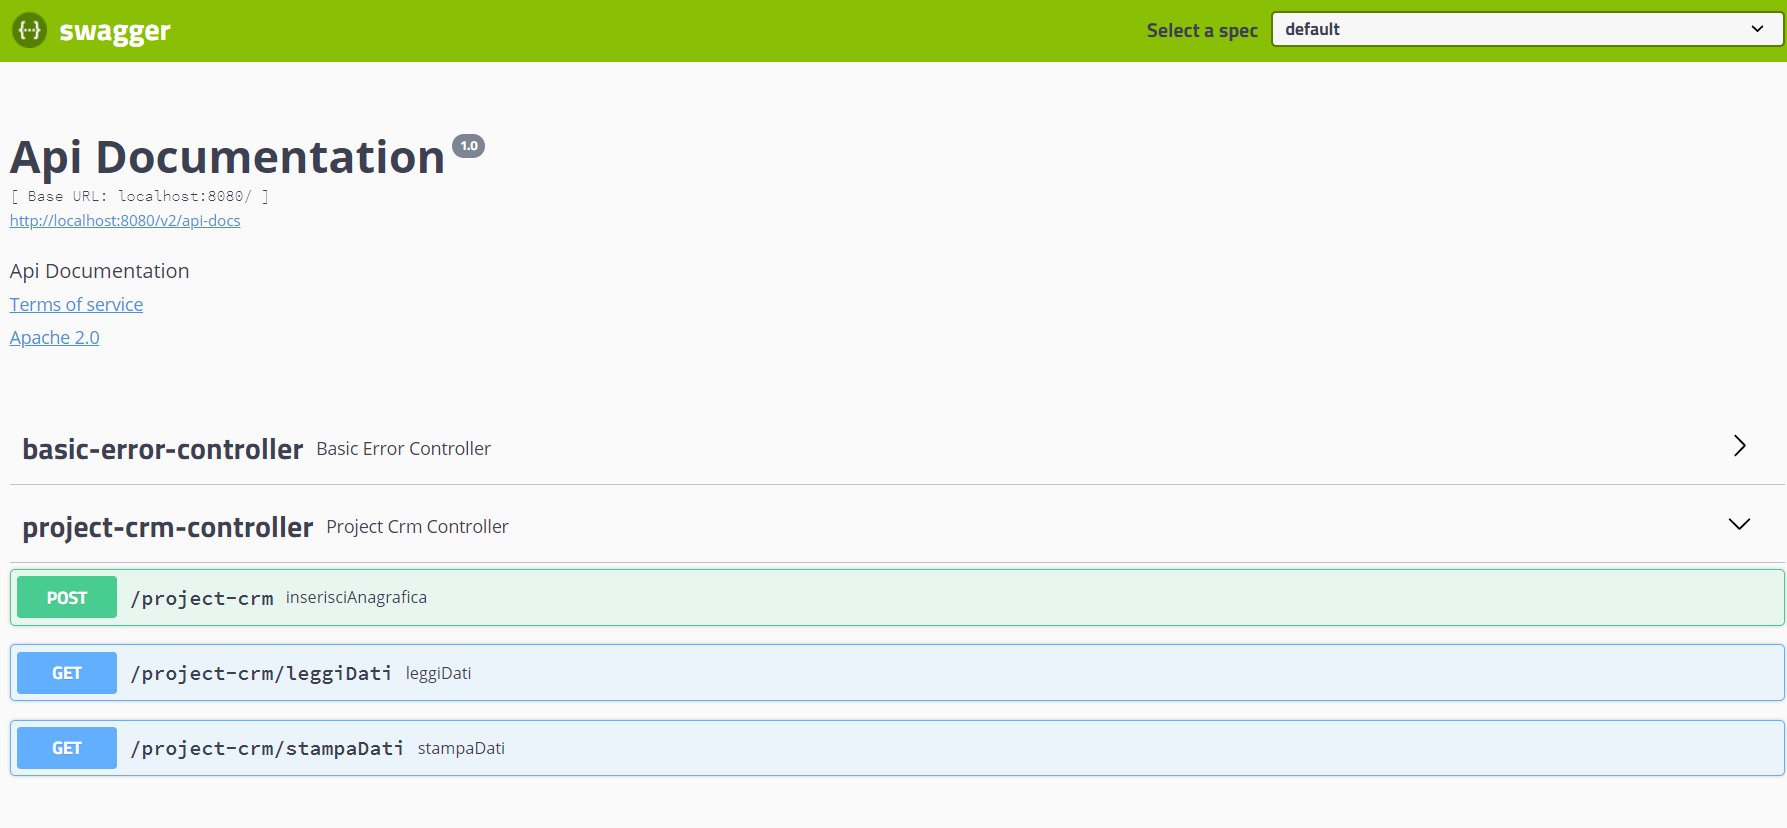
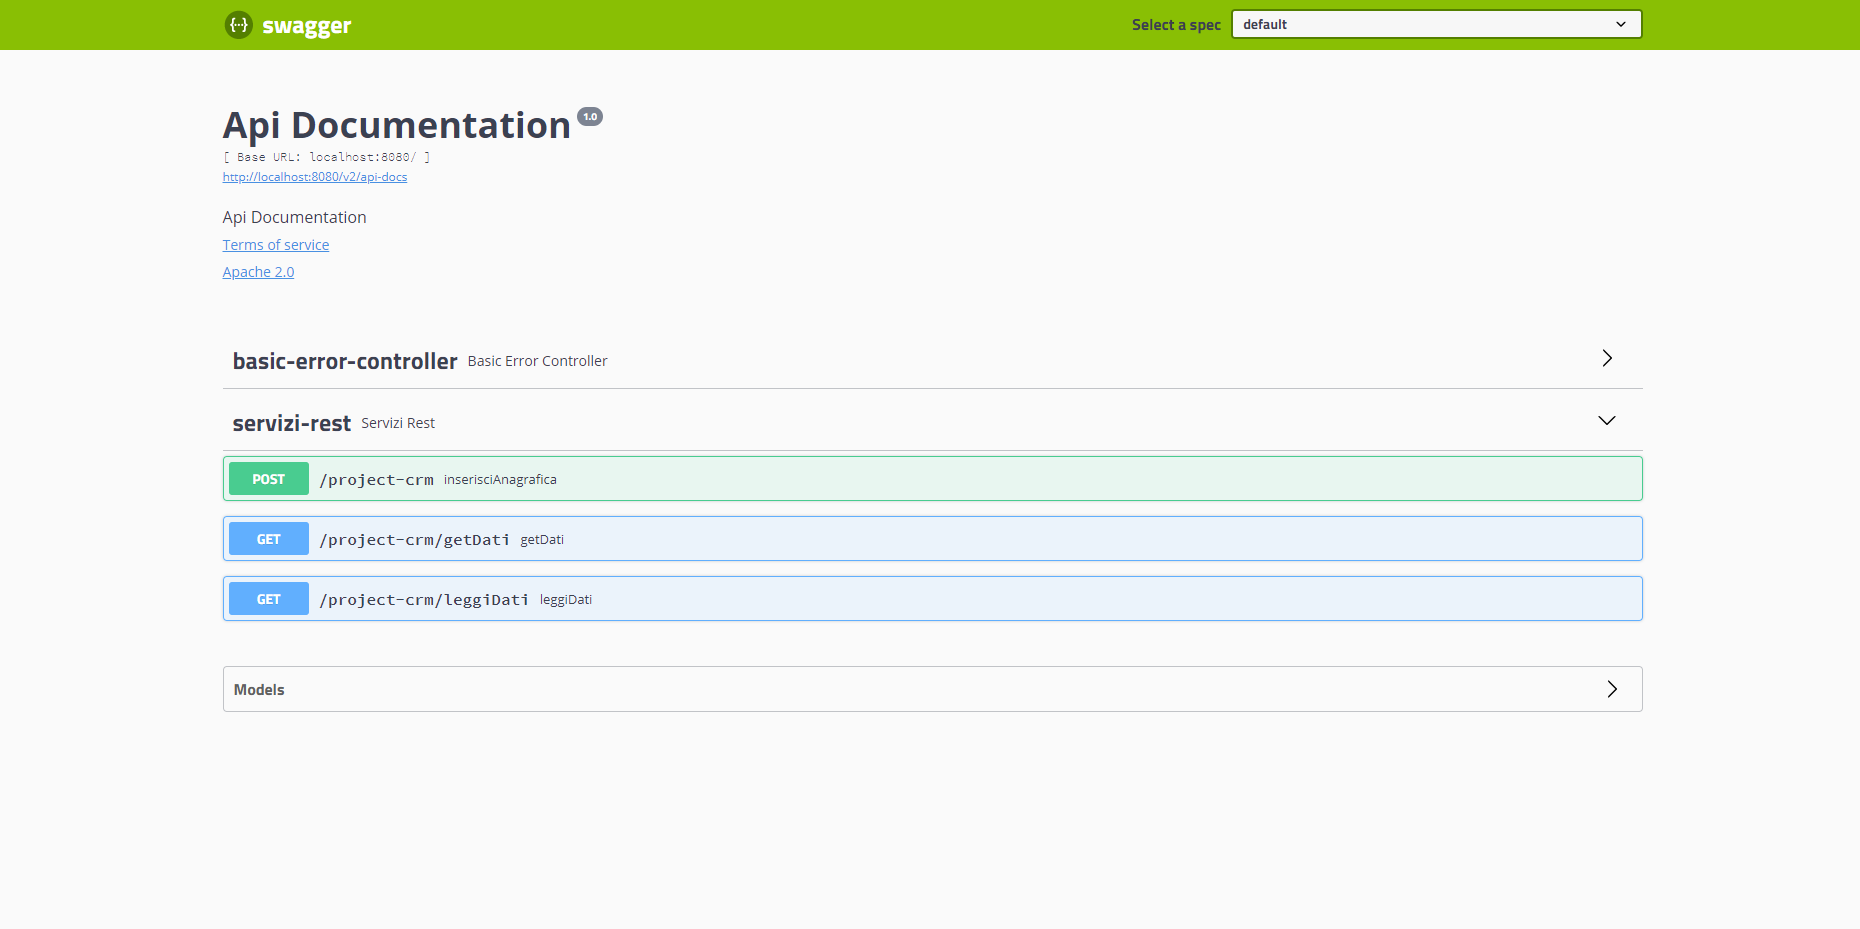
modifica contenuto cartella images

diff --git a/src/main/java/it/logicainformatica/projectcrm/db/MetodiDB.java b/src/main/java/it/logicainformatica/projectcrm/db/MetodiDB.java
@@ -49,7 +49,7 @@ public class MetodiDB {
 			} else {
 				System.out.println("Inserimento fallito");
 			}
-
+			
 		} catch (SQLException e) { // gestisco eventuali errori di tipo sql
 			e.printStackTrace();
 			System.out.println("Errore SQL nel metodo inserisciUtente " + e.getMessage());
@@ -63,7 +63,6 @@ public class MetodiDB {
 				e.printStackTrace();
 			}
 		}
-
 	}
 
 	// metodo per prendere i dati dal DB
@@ -102,7 +101,6 @@ public class MetodiDB {
 				// aggiungo i dati presi dalle colonne all'oggetto lista
 				lista.add(usrObj);
 			}
-
 		} catch (SQLException e) { // gestisco eventuali errori di tipo sql
 			e.printStackTrace();
 			System.out.println("Errore SQL nel metodo getDati " + e.getMessage());
@@ -180,7 +178,7 @@ public class MetodiDB {
 			fW.write(name);
 			fW.write(lastName);
 			fW.write(telephone + "\n");
-
+			
 		} catch (Exception e) { // gestisco eventuali errori generici
 			e.printStackTrace();
 			System.out.println("Errore nel metodo writeFile " + e.getMessage());

diff --git a/src/main/java/it/logicainformatica/projectcrm/controller/ServiziRest.java b/src/main/java/it/logicainformatica/projectcrm/controller/ServiziRest.java
@@ -39,7 +39,7 @@ public class ServiziRest {
 
 	// servizio rest di tipo get che al suo interno richiama il metodo che prende i
 	// dati presenti sul DB
-	@GetMapping("/stampaDati")
+	@GetMapping("/getDati")
 	public List<AnagraficaBean> getDati() {
 		List<AnagraficaBean> lista = dbMetod.getDati();
 		return lista;
